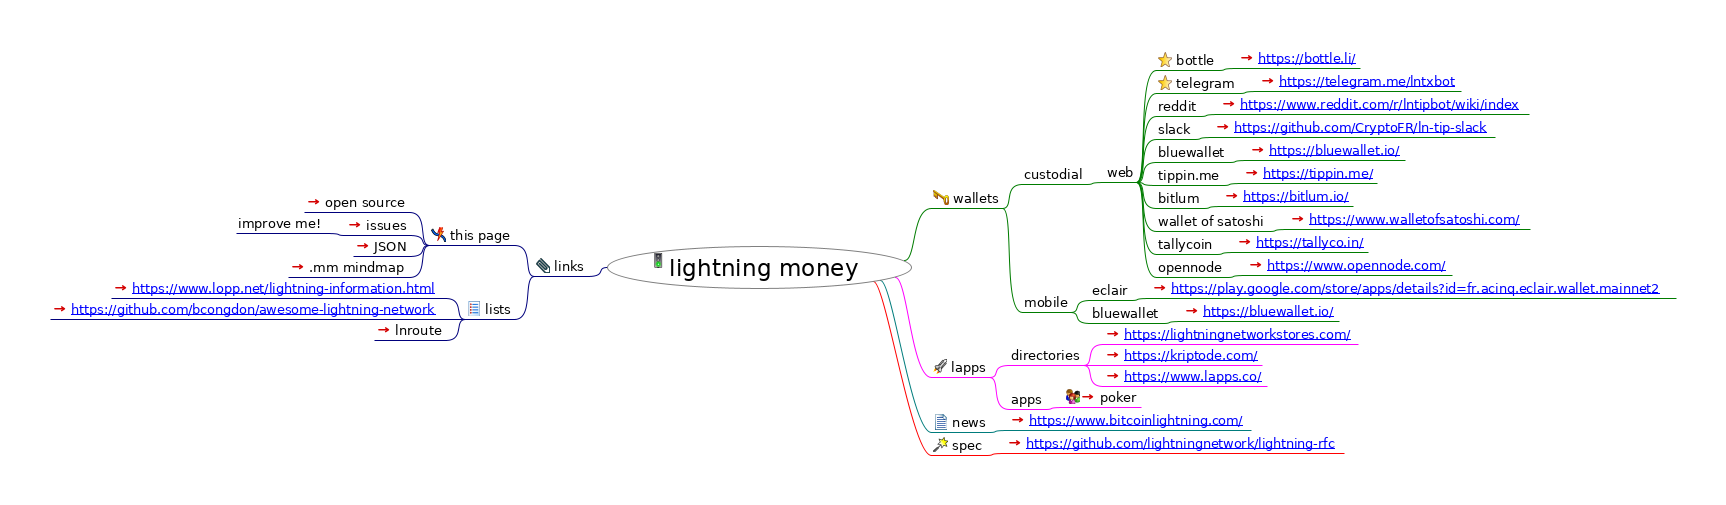
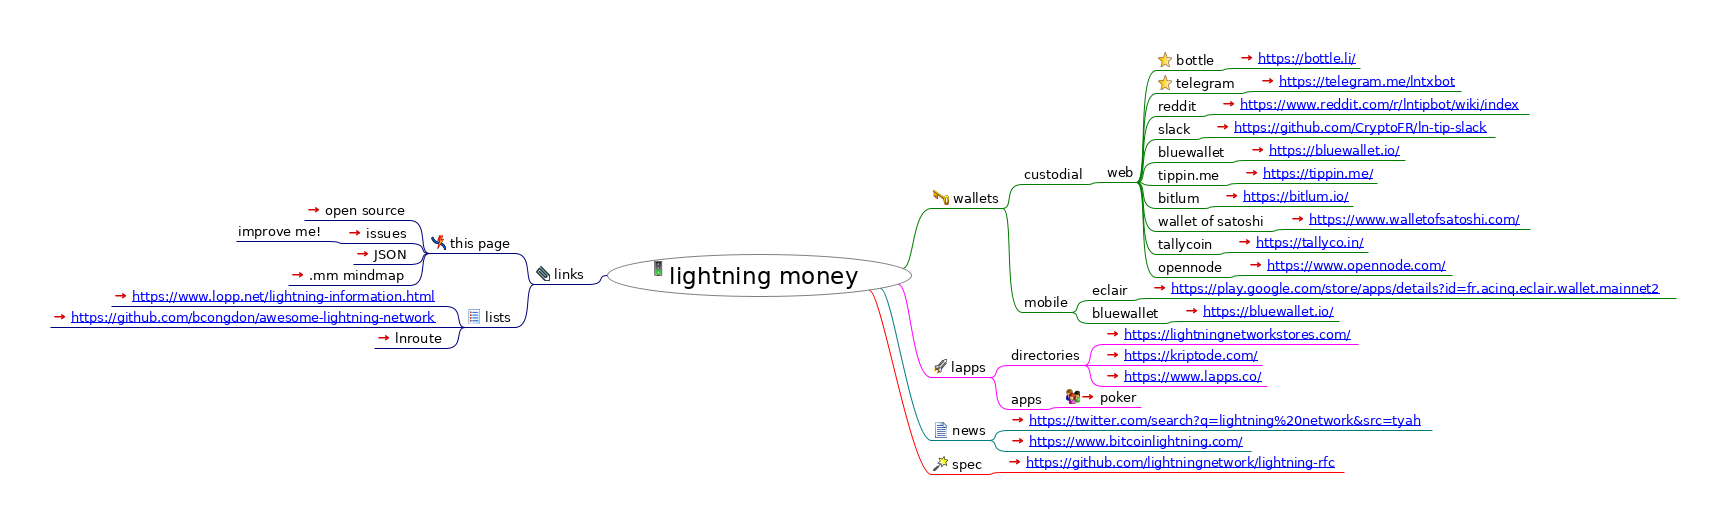
DEFAULT_MESSAGE

diff --git a/index.html b/index.html
@@ -23,7 +23,7 @@
                    };
                };
           
-          --></script></head><body><h1>lightning money</h1><div style="width:96%;  padding:2%;  margin-bottom:10px;  border: 0px;  text-align:center;  vertical-align:center;"><img src="index.html_files/image.png" style="margin-bottom:10px; &#9;border: 0px; &#9;text-align:center; &#9;vertical-align:center;" alt="Imagemap" usemap="#fm_imagemap" /></div><map name="fm_imagemap" id="fm_imagemap"><area shape="rect" href="#FMID_1568754813FM" alt="lightning money" title="lightning money" coords="607,246,912,289" />
+          --></script></head><body><h1>lightning money</h1><div style="width:96%;  padding:2%;  margin-bottom:10px;  border: 0px;  text-align:center;  vertical-align:center;"><img src="index.html_files/image.png" style="margin-bottom:10px; &#9;border: 0px; &#9;text-align:center; &#9;vertical-align:center;" alt="Imagemap" usemap="#fm_imagemap" /></div><map name="fm_imagemap" id="fm_imagemap"><area shape="rect" href="#FMID_1568754813FM" alt="lightning money" title="lightning money" coords="607,254,912,297" />
 <area shape="rect" href="#FMID_403237537FM" alt="wallets" title="wallets" coords="931,190,1003,208" />
 <area shape="rect" href="#FMID_713142011FM" alt="custodial" title="custodial" coords="1022,166,1086,184" />
 <area shape="rect" href="#FMID_1071283894FM" alt="web" title="web" coords="1105,164,1137,182" />
@@ -59,21 +59,22 @@
 <area shape="rect" href="https://www.lapps.co/" alt="https://www.lapps.co/ " title="https://www.lapps.co/ " coords="1103,368,1267,386" />
 <area shape="rect" href="#FMID_1371138197FM" alt="apps" title="apps" coords="1009,391,1045,409" />
 <area shape="rect" href="https://lightning-poker.com/" alt="poker" title="poker" coords="1064,389,1141,407" />
-<area shape="rect" href="#FMID_1050804376FM" alt="news" title="news" coords="931,414,989,432" />
-<area shape="rect" href="https://www.bitcoinlightning.com/" alt="https://www.bitcoinlightning.com/ " title="https://www.bitcoinlightning.com/ " coords="1008,412,1251,430" />
-<area shape="rect" href="#FMID_1721082161FM" alt="spec" title="spec" coords="931,437,986,455" />
-<area shape="rect" href="https://github.com/lightningnetwork/lightning-rfc" alt="https://github.com/lightningnetwork/ligh ..." title="https://github.com/lightningnetwork/ligh ..." coords="1005,435,1344,453" />
-<area shape="rect" href="#FMID_728396892FM" alt="links" title="links" coords="534,258,588,276" />
-<area shape="rect" href="#FMID_1704672214FM" alt="this page" title="this page" coords="429,227,515,245" />
-<area shape="rect" href="https://github.com/solidpayorg/lightning.money/" alt="open source" title="open source" coords="304,194,410,212" />
-<area shape="rect" href="https://github.com/solidpayorg/lightning.money/issues" alt="issues" title="issues" coords="345,217,410,235" />
-<area shape="rect" href="#FMID_824388782FM" alt="improve me!" title="improve me!" coords="236,215,326,233" />
-<area shape="rect" href="index.json" alt="JSON" title="JSON" coords="353,238,410,256" />
-<area shape="rect" href="index.html" alt=".mm mindmap" title=".mm mindmap" coords="288,259,410,277" />
-<area shape="rect" href="#FMID_1744026554FM" alt="lists" title="lists" coords="465,301,515,319" />
-<area shape="rect" href="https://www.lopp.net/lightning-information.html" alt="https://www.lopp.net/lightning-informati ..." title="https://www.lopp.net/lightning-informati ..." coords="111,280,446,298" />
-<area shape="rect" href="https://github.com/bcongdon/awesome-lightning-network" alt="https://github.com/bcongdon/awesome-ligh ..." title="https://github.com/bcongdon/awesome-ligh ..." coords="50,301,446,319" />
-<area shape="rect" href="https://lnroute.com/" alt="lnroute" title="lnroute" coords="374,322,446,340" />
+<area shape="rect" href="#FMID_1050804376FM" alt="news" title="news" coords="931,422,989,440" />
+<area shape="rect" href="https://twitter.com/search?q=lightning%20network#FMID_1210018261FMamp;src=tyah" alt="https://twitter.com/search?q=lightning%2 ..." title="https://twitter.com/search?q=lightning%2 ..." coords="1008,412,1432,430" />
+<area shape="rect" href="https://www.bitcoinlightning.com/" alt="https://www.bitcoinlightning.com/ " title="https://www.bitcoinlightning.com/ " coords="1008,433,1251,451" />
+<area shape="rect" href="#FMID_1721082161FM" alt="spec" title="spec" coords="931,456,986,474" />
+<area shape="rect" href="https://github.com/lightningnetwork/lightning-rfc" alt="https://github.com/lightningnetwork/ligh ..." title="https://github.com/lightningnetwork/ligh ..." coords="1005,454,1344,472" />
+<area shape="rect" href="#FMID_728396892FM" alt="links" title="links" coords="534,266,588,284" />
+<area shape="rect" href="#FMID_1704672214FM" alt="this page" title="this page" coords="429,235,515,253" />
+<area shape="rect" href="https://github.com/solidpayorg/lightning.money/" alt="open source" title="open source" coords="304,202,410,220" />
+<area shape="rect" href="https://github.com/solidpayorg/lightning.money/issues" alt="issues" title="issues" coords="345,225,410,243" />
+<area shape="rect" href="#FMID_824388782FM" alt="improve me!" title="improve me!" coords="236,223,326,241" />
+<area shape="rect" href="index.json" alt="JSON" title="JSON" coords="353,246,410,264" />
+<area shape="rect" href="index.html" alt=".mm mindmap" title=".mm mindmap" coords="288,267,410,285" />
+<area shape="rect" href="#FMID_1744026554FM" alt="lists" title="lists" coords="465,309,515,327" />
+<area shape="rect" href="https://www.lopp.net/lightning-information.html" alt="https://www.lopp.net/lightning-informati ..." title="https://www.lopp.net/lightning-informati ..." coords="111,288,446,306" />
+<area shape="rect" href="https://github.com/bcongdon/awesome-lightning-network" alt="https://github.com/bcongdon/awesome-ligh ..." title="https://github.com/bcongdon/awesome-ligh ..." coords="50,309,446,327" />
+<area shape="rect" href="https://lnroute.com/" alt="lnroute" title="lnroute" coords="374,330,446,348" />
 </map>
 
 <div class="node"><img src="index.html_files/hide.png" class="hideshow" alt="hide" onClick="toggle(&quot;N65543&quot;)" id="imgN65543" /><img src="index.html_files/icons/go.svg" alt="go" /> <a id="FMID_1568754813FM" /><div class="nodecontent" style="color:#000000;font-size:150%;">lightning money</div><div class="content" id="N65543"><div class="node"><img src="index.html_files/hide.png" class="hideshow" alt="hide" onClick="toggle(&quot;N66444&quot;)" id="imgN66444" /><img src="index.html_files/icons/password.svg" alt="password" /> <a id="FMID_403237537FM" /><div class="nodecontent" style="color:#000000;font-size:83%;">wallets</div><div class="content" id="N66444"><div class="node"><img src="index.html_files/hide.png" class="hideshow" alt="hide" onClick="toggle(&quot;N66485&quot;)" id="imgN66485" /><a id="FMID_713142011FM" /><div class="nodecontent" style="color:#000000;font-size:83%;">custodial</div><div class="content" id="N66485"><div class="node"><img src="index.html_files/hide.png" class="hideshow" alt="hide" onClick="toggle(&quot;N66520&quot;)" id="imgN66520" /><a id="FMID_1071283894FM" /><div class="nodecontent" style="color:#000000;font-size:83%;">web</div><div class="content" id="N66520"><div class="node"><img src="index.html_files/hide.png" class="hideshow" alt="hide" onClick="toggle(&quot;N66555&quot;)" id="imgN66555" /><img src="index.html_files/icons/bookmark.svg" alt="bookmark" /> <a id="FMID_432921303FM" /><div class="nodecontent" style="color:#000000;font-size:83%;">bottle</div><div class="content" id="N66555"><div class="node"><img src="index.html_files/leaf.png" class="hideshow" alt="leaf" /><a id="FMID_1723379621FM" /><div class="nodecontent" style="color:#000000;font-size:83%;"><a href="https://bottle.li/">
@@ -106,11 +107,13 @@
     <a http-equiv="content-type" content="text/html; charset=utf-8" href="https://kriptode.com/">https://kriptode.com/</a>
   </a> <a href="https://kriptode.com/"><img src="index.html_files/ilink.png" alt="User Link" style="border-width:0" /></a></div></div><div class="node"><img src="index.html_files/leaf.png" class="hideshow" alt="leaf" /><a id="FMID_739721844FM" /><div class="nodecontent" style="color:#000000;font-size:83%;"><a href="https://www.lapps.co/">
     <a http-equiv="content-type" content="text/html; charset=utf-8" href="https://www.lapps.co/">https://www.lapps.co/</a> 
-  </a> <a href="https://www.lapps.co/"><img src="index.html_files/ilink.png" alt="User Link" style="border-width:0" /></a></div></div></div></div><div class="node"><img src="index.html_files/hide.png" class="hideshow" alt="hide" onClick="toggle(&quot;N67938&quot;)" id="imgN67938" /><a id="FMID_1371138197FM" /><div class="nodecontent" style="color:#000000;font-size:83%;">apps</div><div class="content" id="N67938"><div class="node"><img src="index.html_files/leaf.png" class="hideshow" alt="leaf" /><img src="index.html_files/icons/group.svg" alt="group" /> <a id="FMID_491528674FM" /><div class="nodecontent" style="color:#000000;font-size:83%;"><a href="https://lightning-poker.com/">poker</a> <a href="https://lightning-poker.com/"><img src="index.html_files/ilink.png" alt="User Link" style="border-width:0" /></a></div></div></div></div></div></div><div class="node"><img src="index.html_files/hide.png" class="hideshow" alt="hide" onClick="toggle(&quot;N68017&quot;)" id="imgN68017" /><img src="index.html_files/icons/16x16-free-application-icons/png/16x16/Text.svg" alt="16x16-free-application-icons/png/16x16/Text" /> <a id="FMID_1050804376FM" /><div class="nodecontent" style="color:#000000;font-size:83%;">news</div><div class="content" id="N68017"><div class="node"><img src="index.html_files/leaf.png" class="hideshow" alt="leaf" /><a id="FMID_1919527951FM" /><div class="nodecontent" style="color:#000000;font-size:83%;"><a href="https://www.bitcoinlightning.com/">
+  </a> <a href="https://www.lapps.co/"><img src="index.html_files/ilink.png" alt="User Link" style="border-width:0" /></a></div></div></div></div><div class="node"><img src="index.html_files/hide.png" class="hideshow" alt="hide" onClick="toggle(&quot;N67938&quot;)" id="imgN67938" /><a id="FMID_1371138197FM" /><div class="nodecontent" style="color:#000000;font-size:83%;">apps</div><div class="content" id="N67938"><div class="node"><img src="index.html_files/leaf.png" class="hideshow" alt="leaf" /><img src="index.html_files/icons/group.svg" alt="group" /> <a id="FMID_491528674FM" /><div class="nodecontent" style="color:#000000;font-size:83%;"><a href="https://lightning-poker.com/">poker</a> <a href="https://lightning-poker.com/"><img src="index.html_files/ilink.png" alt="User Link" style="border-width:0" /></a></div></div></div></div></div></div><div class="node"><img src="index.html_files/hide.png" class="hideshow" alt="hide" onClick="toggle(&quot;N68017&quot;)" id="imgN68017" /><img src="index.html_files/icons/16x16-free-application-icons/png/16x16/Text.svg" alt="16x16-free-application-icons/png/16x16/Text" /> <a id="FMID_1050804376FM" /><div class="nodecontent" style="color:#000000;font-size:83%;">news</div><div class="content" id="N68017"><div class="node"><img src="index.html_files/leaf.png" class="hideshow" alt="leaf" /><a id="FMID_1210018261FM" /><div class="nodecontent" style="color:#000000;font-size:83%;"><a href="https://twitter.com/search?q=lightning%20network&amp;src=tyah">
+    <a http-equiv="content-type" content="text/html; charset=utf-8" href="https://twitter.com/search?q=lightning%20network&amp;src=tyah">https://twitter.com/search?q=lightning%20network&amp;src=tyah</a> 
+  </a> <a href="https://twitter.com/search?q=lightning%20network&amp;src=tyah"><img src="index.html_files/ilink.png" alt="User Link" style="border-width:0" /></a></div></div><div class="node"><img src="index.html_files/leaf.png" class="hideshow" alt="leaf" /><a id="FMID_1919527951FM" /><div class="nodecontent" style="color:#000000;font-size:83%;"><a href="https://www.bitcoinlightning.com/">
     <a http-equiv="content-type" content="text/html; charset=utf-8" href="https://www.bitcoinlightning.com/">https://www.bitcoinlightning.com/</a> 
-  </a> <a href="https://www.bitcoinlightning.com/"><img src="index.html_files/ilink.png" alt="User Link" style="border-width:0" /></a></div></div></div></div><div class="node"><img src="index.html_files/hide.png" class="hideshow" alt="hide" onClick="toggle(&quot;N68114&quot;)" id="imgN68114" /><img src="index.html_files/icons/wizard.svg" alt="wizard" /> <a id="FMID_1721082161FM" /><div class="nodecontent" style="color:#000000;font-size:83%;">spec</div><div class="content" id="N68114"><div class="node"><img src="index.html_files/leaf.png" class="hideshow" alt="leaf" /><a id="FMID_1858353829FM" /><div class="nodecontent" style="color:#000000;font-size:83%;"><a href="https://github.com/lightningnetwork/lightning-rfc">
+  </a> <a href="https://www.bitcoinlightning.com/"><img src="index.html_files/ilink.png" alt="User Link" style="border-width:0" /></a></div></div></div></div><div class="node"><img src="index.html_files/hide.png" class="hideshow" alt="hide" onClick="toggle(&quot;N68169&quot;)" id="imgN68169" /><img src="index.html_files/icons/wizard.svg" alt="wizard" /> <a id="FMID_1721082161FM" /><div class="nodecontent" style="color:#000000;font-size:83%;">spec</div><div class="content" id="N68169"><div class="node"><img src="index.html_files/leaf.png" class="hideshow" alt="leaf" /><a id="FMID_1858353829FM" /><div class="nodecontent" style="color:#000000;font-size:83%;"><a href="https://github.com/lightningnetwork/lightning-rfc">
     <a http-equiv="content-type" content="text/html; charset=utf-8" href="https://github.com/lightningnetwork/lightning-rfc">https://github.com/lightningnetwork/lightning-rfc</a>
-  </a> <a href="https://github.com/lightningnetwork/lightning-rfc"><img src="index.html_files/ilink.png" alt="User Link" style="border-width:0" /></a></div></div></div></div><div class="node"><img src="index.html_files/hide.png" class="hideshow" alt="hide" onClick="toggle(&quot;N68211&quot;)" id="imgN68211" /><img src="index.html_files/icons/attach.svg" alt="attach" /> <a id="FMID_728396892FM" /><div class="nodecontent" style="color:#000000;font-size:83%;">links</div><div class="content" id="N68211"><div class="node"><img src="index.html_files/hide.png" class="hideshow" alt="hide" onClick="toggle(&quot;N68252&quot;)" id="imgN68252" /><img src="index.html_files/icons/broken-line.svg" alt="broken-line" /> <a id="FMID_1704672214FM" /><div class="nodecontent" style="color:#000000;font-size:83%;">this page</div><div class="content" id="N68252"><div class="node"><img src="index.html_files/leaf.png" class="hideshow" alt="leaf" /><a id="FMID_1211678675FM" /><div class="nodecontent" style="color:#000000;font-size:83%;"><a href="https://github.com/solidpayorg/lightning.money/">open source</a> <a href="https://github.com/solidpayorg/lightning.money/"><img src="index.html_files/ilink.png" alt="User Link" style="border-width:0" /></a></div></div><div class="node"><img src="index.html_files/hide.png" class="hideshow" alt="hide" onClick="toggle(&quot;N68329&quot;)" id="imgN68329" /><a id="FMID_1677347904FM" /><div class="nodecontent" style="color:#000000;font-size:83%;"><a href="https://github.com/solidpayorg/lightning.money/issues">issues</a> <a href="https://github.com/solidpayorg/lightning.money/issues"><img src="index.html_files/ilink.png" alt="User Link" style="border-width:0" /></a></div><div class="content" id="N68329"><div class="node"><img src="index.html_files/leaf.png" class="hideshow" alt="leaf" /><a id="FMID_824388782FM" /><div class="nodecontent" style="color:#000000;font-size:83%;">improve me!</div></div></div></div><div class="node"><img src="index.html_files/leaf.png" class="hideshow" alt="leaf" /><a id="FMID_903253757FM" /><div class="nodecontent" style="color:#000000;font-size:83%;"><a href="index.json">JSON</a> <a href="index.json"><img src="index.html_files/ilink.png" alt="User Link" style="border-width:0" /></a></div></div><div class="node"><img src="index.html_files/leaf.png" class="hideshow" alt="leaf" /><a id="FMID_963935095FM" /><div class="nodecontent" style="color:#000000;font-size:83%;"><a href="index.html">.mm mindmap</a> <a href="index.html"><img src="index.html_files/ilink.png" alt="User Link" style="border-width:0" /></a></div></div></div></div><div class="node"><img src="index.html_files/hide.png" class="hideshow" alt="hide" onClick="toggle(&quot;N68477&quot;)" id="imgN68477" /><img src="index.html_files/icons/list.svg" alt="list" /> <a id="FMID_1744026554FM" /><div class="nodecontent" style="color:#000000;font-size:83%;">lists</div><div class="content" id="N68477"><div class="node"><img src="index.html_files/leaf.png" class="hideshow" alt="leaf" /><a id="FMID_1897426799FM" /><div class="nodecontent" style="color:#000000;font-size:83%;"><a href="https://www.lopp.net/lightning-information.html">
+  </a> <a href="https://github.com/lightningnetwork/lightning-rfc"><img src="index.html_files/ilink.png" alt="User Link" style="border-width:0" /></a></div></div></div></div><div class="node"><img src="index.html_files/hide.png" class="hideshow" alt="hide" onClick="toggle(&quot;N68266&quot;)" id="imgN68266" /><img src="index.html_files/icons/attach.svg" alt="attach" /> <a id="FMID_728396892FM" /><div class="nodecontent" style="color:#000000;font-size:83%;">links</div><div class="content" id="N68266"><div class="node"><img src="index.html_files/hide.png" class="hideshow" alt="hide" onClick="toggle(&quot;N68307&quot;)" id="imgN68307" /><img src="index.html_files/icons/broken-line.svg" alt="broken-line" /> <a id="FMID_1704672214FM" /><div class="nodecontent" style="color:#000000;font-size:83%;">this page</div><div class="content" id="N68307"><div class="node"><img src="index.html_files/leaf.png" class="hideshow" alt="leaf" /><a id="FMID_1211678675FM" /><div class="nodecontent" style="color:#000000;font-size:83%;"><a href="https://github.com/solidpayorg/lightning.money/">open source</a> <a href="https://github.com/solidpayorg/lightning.money/"><img src="index.html_files/ilink.png" alt="User Link" style="border-width:0" /></a></div></div><div class="node"><img src="index.html_files/hide.png" class="hideshow" alt="hide" onClick="toggle(&quot;N68384&quot;)" id="imgN68384" /><a id="FMID_1677347904FM" /><div class="nodecontent" style="color:#000000;font-size:83%;"><a href="https://github.com/solidpayorg/lightning.money/issues">issues</a> <a href="https://github.com/solidpayorg/lightning.money/issues"><img src="index.html_files/ilink.png" alt="User Link" style="border-width:0" /></a></div><div class="content" id="N68384"><div class="node"><img src="index.html_files/leaf.png" class="hideshow" alt="leaf" /><a id="FMID_824388782FM" /><div class="nodecontent" style="color:#000000;font-size:83%;">improve me!</div></div></div></div><div class="node"><img src="index.html_files/leaf.png" class="hideshow" alt="leaf" /><a id="FMID_903253757FM" /><div class="nodecontent" style="color:#000000;font-size:83%;"><a href="index.json">JSON</a> <a href="index.json"><img src="index.html_files/ilink.png" alt="User Link" style="border-width:0" /></a></div></div><div class="node"><img src="index.html_files/leaf.png" class="hideshow" alt="leaf" /><a id="FMID_963935095FM" /><div class="nodecontent" style="color:#000000;font-size:83%;"><a href="index.html">.mm mindmap</a> <a href="index.html"><img src="index.html_files/ilink.png" alt="User Link" style="border-width:0" /></a></div></div></div></div><div class="node"><img src="index.html_files/hide.png" class="hideshow" alt="hide" onClick="toggle(&quot;N68532&quot;)" id="imgN68532" /><img src="index.html_files/icons/list.svg" alt="list" /> <a id="FMID_1744026554FM" /><div class="nodecontent" style="color:#000000;font-size:83%;">lists</div><div class="content" id="N68532"><div class="node"><img src="index.html_files/leaf.png" class="hideshow" alt="leaf" /><a id="FMID_1897426799FM" /><div class="nodecontent" style="color:#000000;font-size:83%;"><a href="https://www.lopp.net/lightning-information.html">
     <a http-equiv="content-type" content="text/html; charset=utf-8" href="https://www.lopp.net/lightning-information.html">https://www.lopp.net/lightning-information.html</a>
   </a> <a href="https://www.lopp.net/lightning-information.html"><img src="index.html_files/ilink.png" alt="User Link" style="border-width:0" /></a></div></div><div class="node"><img src="index.html_files/leaf.png" class="hideshow" alt="leaf" /><a id="FMID_1244510370FM" /><div class="nodecontent" style="color:#000000;font-size:83%;"><a href="https://github.com/bcongdon/awesome-lightning-network">
     <a http-equiv="content-type" content="text/html; charset=utf-8" href="https://github.com/bcongdon/awesome-lightning-network">https://github.com/bcongdon/awesome-lightning-network</a>

diff --git a/index.mm b/index.mm
@@ -298,6 +298,19 @@
 <node TEXT="news" POSITION="right" ID="ID_1050804376" CREATED="1570785347577" MODIFIED="1570785364319">
 <icon BUILTIN="16x16-free-application-icons/png/16x16/Text"/>
 <edge COLOR="#007c7c"/>
+<node ID="ID_1210018261" CREATED="1570875815581" MODIFIED="1570875815581" LINK="https://twitter.com/search?q=lightning%20network&amp;src=tyah"><richcontent TYPE="NODE">
+
+<html>
+  <head>
+    
+  </head>
+  <body>
+    <a http-equiv="content-type" content="text/html; charset=utf-8" href="https://twitter.com/search?q=lightning%20network&amp;src=tyah">https://twitter.com/search?q=lightning%20network&amp;src=tyah</a> 
+  </body>
+</html>
+
+</richcontent>
+</node>
 <node ID="ID_1919527951" CREATED="1570785367171" MODIFIED="1570785367171" LINK="https://www.bitcoinlightning.com/"><richcontent TYPE="NODE">
 
 <html>
